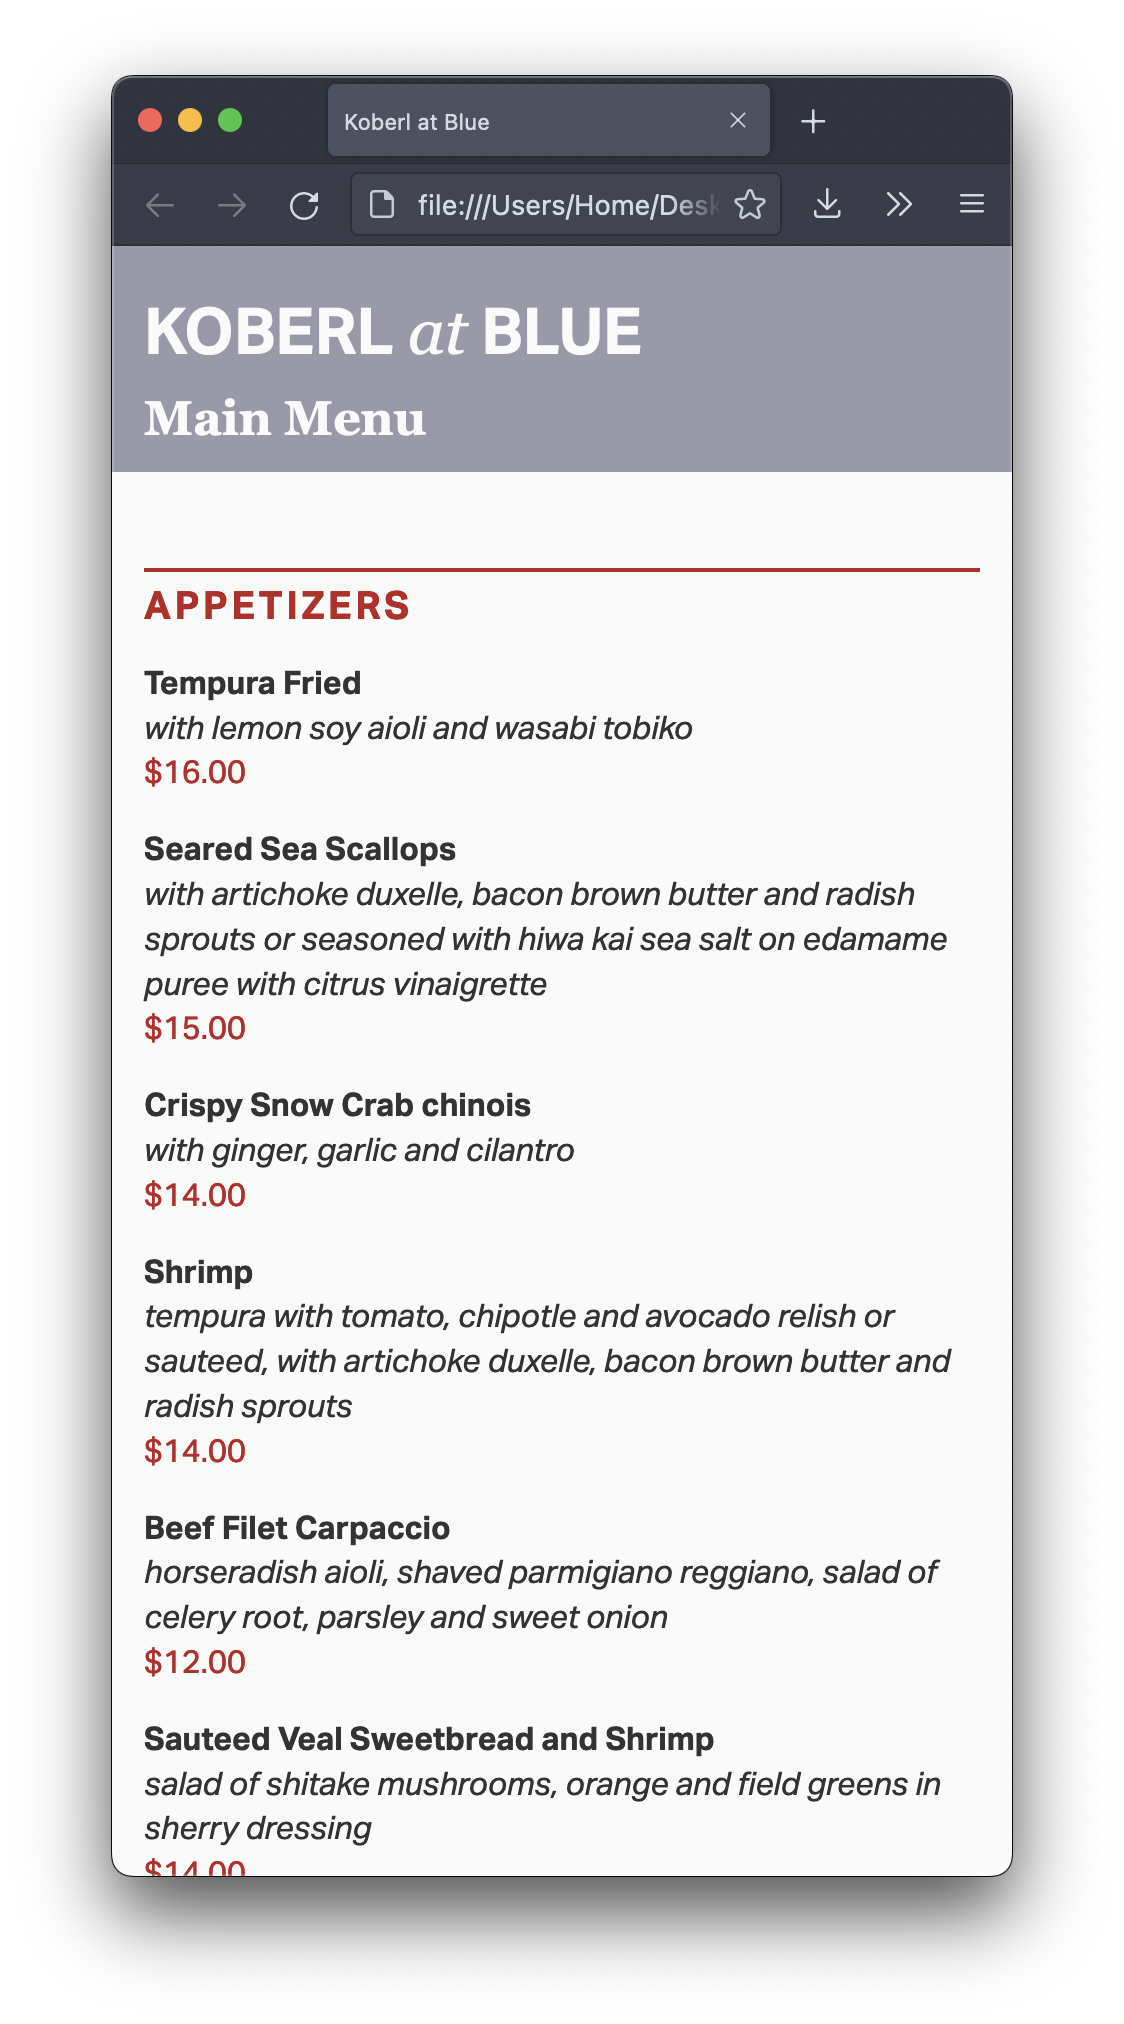
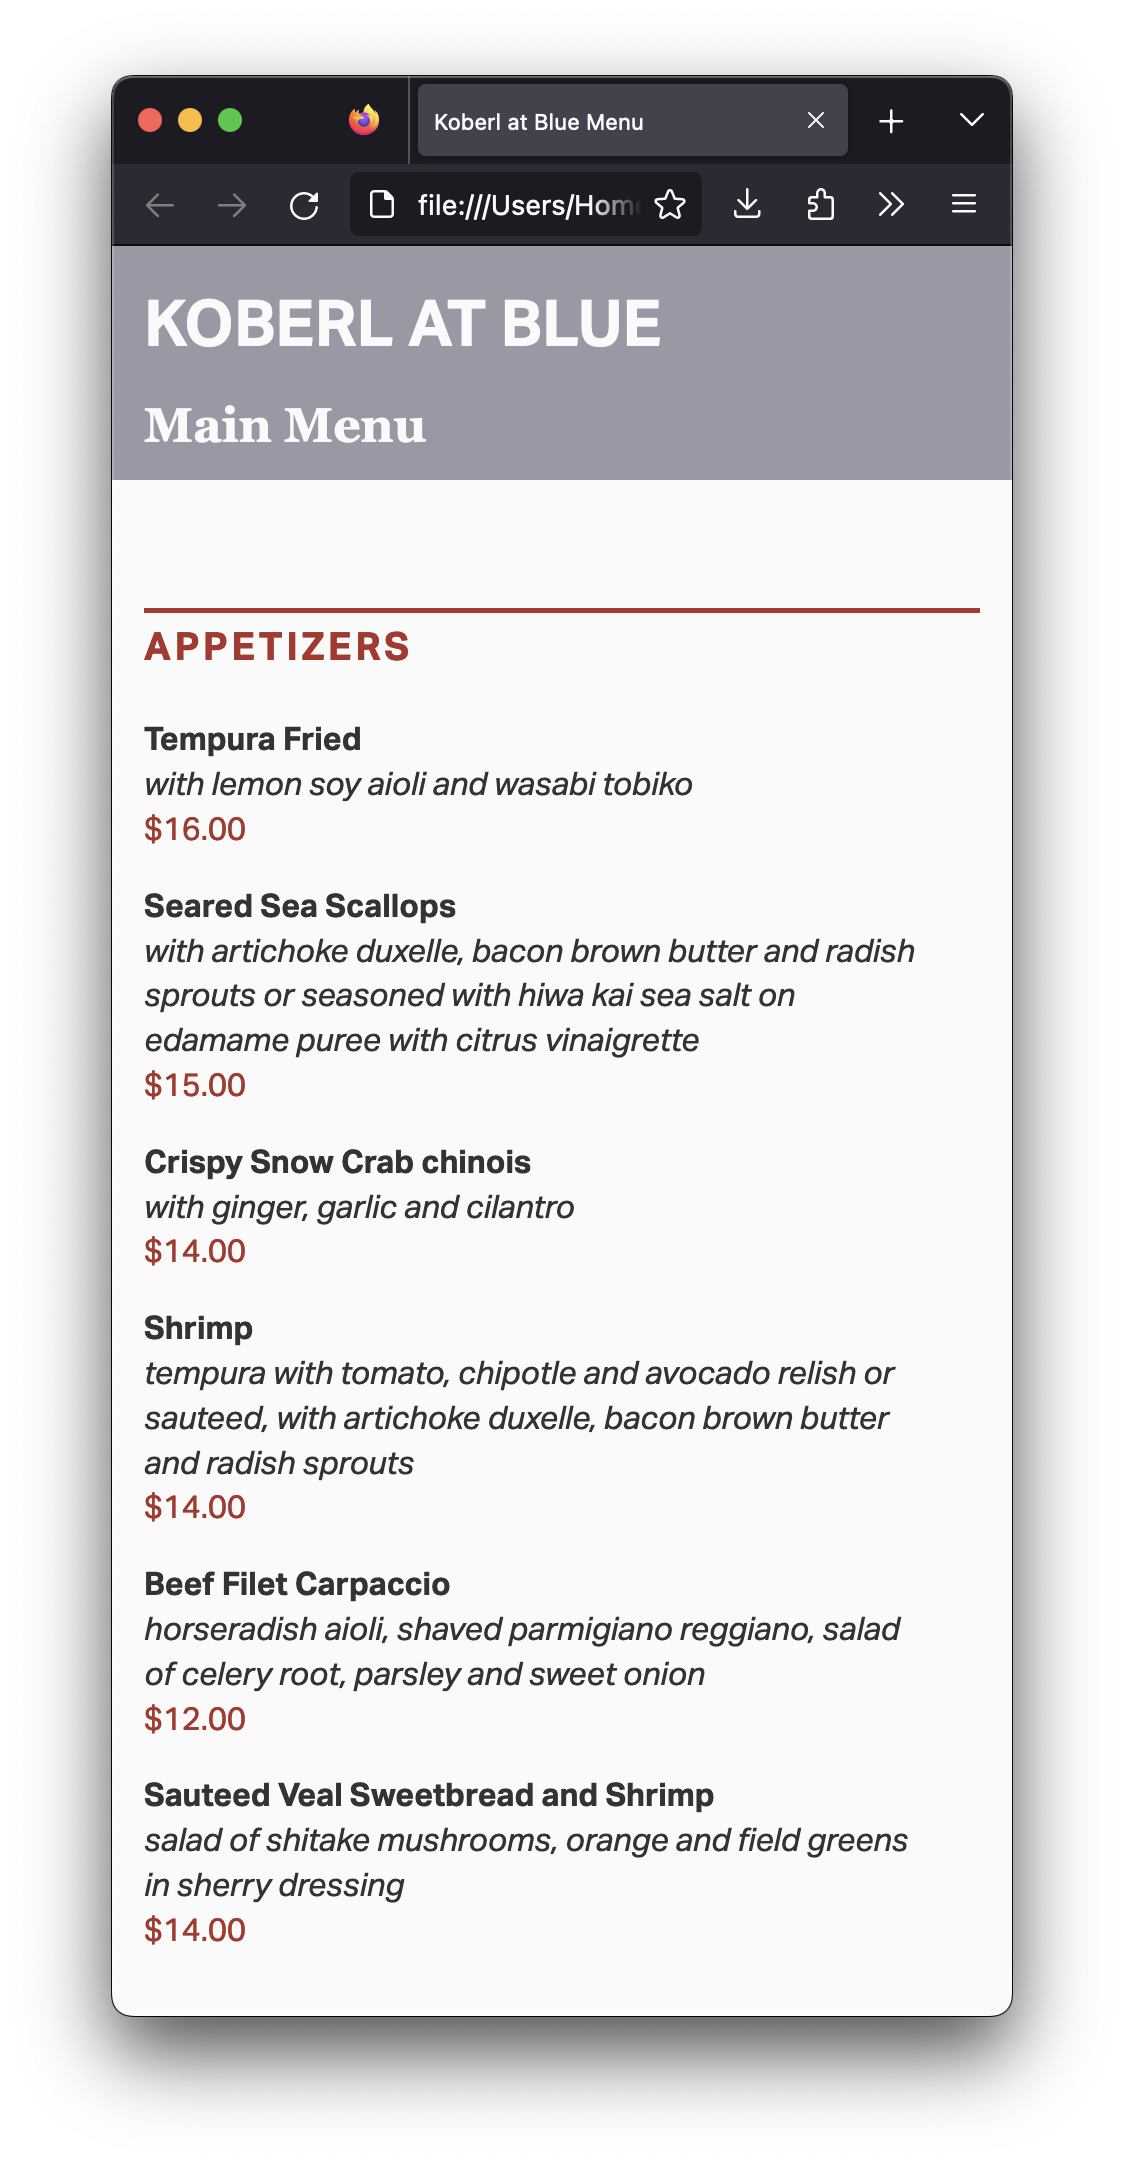
AY24-Q2 GRC 338 2 HTML 2 Restaurant menu with style

Changed region(s): [[0.0934, 0.2801, 0.903, 0.9338], [0.0934, 0.0311, 0.903, 0.249]]

diff --git a/grc338-2238/assignments-2-html-2-restaurant-menu-with-style.html b/grc338-2238/assignments-2-html-2-restaurant-menu-with-style.html
@@ -68,6 +68,9 @@
 <li><p>You&nbsp;don’t need to&nbsp;make the&nbsp;content narrow for&nbsp;mobile. Make the&nbsp;browser window narrow&nbsp;instead. If&nbsp;you have your content narrow on&nbsp;a wide screen, you&nbsp;got it&nbsp;all&nbsp;wrong.</p></li>
 <li><p>If you’re working on a Mac, you can use Apple’s <a href="https://support.apple.com/guide/digital-color-meter/welcome/mac" target="_blank">Digital Color Meter</a> that you already have installed in your computer. (On Windows, it’s not that straightforward, but you can always screenshot an image and open in Photoshop or even Microsoft Paint.)</p></li>
 <li><p><strong>Don’t forget:</strong> You&nbsp;want to&nbsp;<strong>work offline</strong>, saving your files on&nbsp;your computer and keep checking them on <del>your browser</del> Firefox. Only when you’re happy with the&nbsp;results that you&nbsp;want to&nbsp;upload to&nbsp;GitHub. You&nbsp;may change your mind and&nbsp;upload a&nbsp;new file, but&nbsp;what you&nbsp;don’t want is&nbsp;to work straight on&nbsp;GitHub.</p></li>
+<li><p>You&nbsp;can <a href="https://developer.mozilla.org/en-US/docs/Web/CSS/list-style" target="_blank">style the&nbsp;bullets out</a> by&nbsp;applying <code>list-style: none;</code> to&nbsp;your <code>li</code> elements in&nbsp;your&nbsp;CSS.</p></li>
+<li><p>You&nbsp;can get&nbsp;rid of&nbsp;the indentation on&nbsp;the list applying <code>padding: 0;</code> to&nbsp;the <code>ul</code> in&nbsp;your&nbsp;CSS.</p></li>
+<li><p><strong>Do not&nbsp;use negative margins or&nbsp;paddings</strong>. </p></li>
 </ol>
 
 <hr />
@@ -96,7 +99,7 @@
 <p><strong>Check canvas for deadlines.</strong></p>
 
 <footer>
-<p class="lastupdate">Last update on 28 August 2023, at 5:19 PM. &copy;&nbsp;Bruno&nbsp;Ribeiro</p>
+<p class="lastupdate">Last update on 4 October 2023, at 1:12 PM. &copy;&nbsp;Bruno&nbsp;Ribeiro</p>
 
 <p class="disclaimer">We all make mistakes, and I&nbsp;appreciate if&nbsp;you&nbsp;let&nbsp;me know when you&nbsp;catch any&nbsp;of&nbsp;the&nbsp;several mistakes I’ll&nbsp;make this quarter. Students who&nbsp;find insconsistent dates or&nbsp;instructions on&nbsp;any&nbsp;of&nbsp;my&nbsp;assignments will&nbsp;be&nbsp;rewarded with&nbsp;candy.</p>
 

diff --git a/files/restaurantmenustyle.css b/files/restaurantmenustyle.css
@@ -18,13 +18,6 @@ h1 {
 	text-transform: _______;
 }
 
-/* You’ll need to add a span element to your HTML. */
-h1 span { 	
-	font-family: _______;
-	font-style: _______;
-	font-weight: _______;
-	text-transform: _______;
-}
 
 h2 {
 	background-color: _______;
